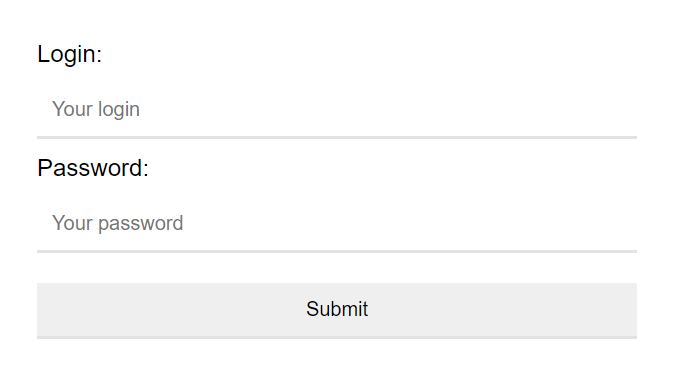
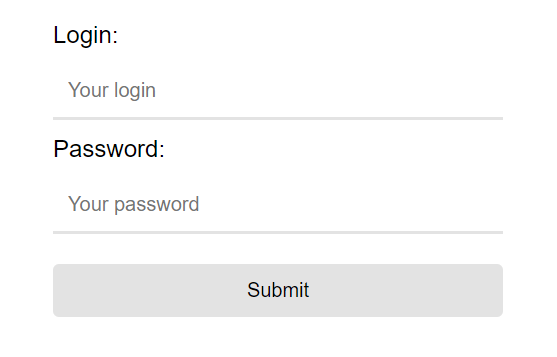
update login form

diff --git a/TexLab/Html/README.md b/TexLab/Html/README.md
@@ -105,7 +105,7 @@ body {
 form {
     display: flex;
     flex-direction: column;
-    width: 400px;
+    width: 300px;
 }
 
 input {
@@ -116,11 +116,12 @@ input {
     outline: none;
 }
 
-button {
+button, input[type='submit']{
     padding: 10px;
     background: #e3e3e3;
     border: unset;
     cursor: pointer;
+    border-radius: 4px;
 }
 ```
 
